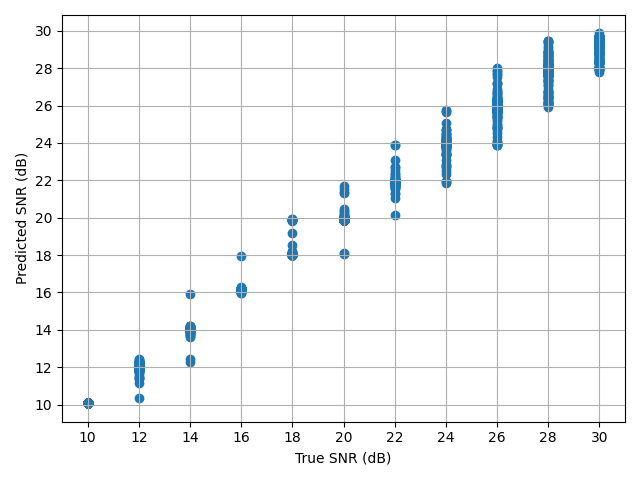
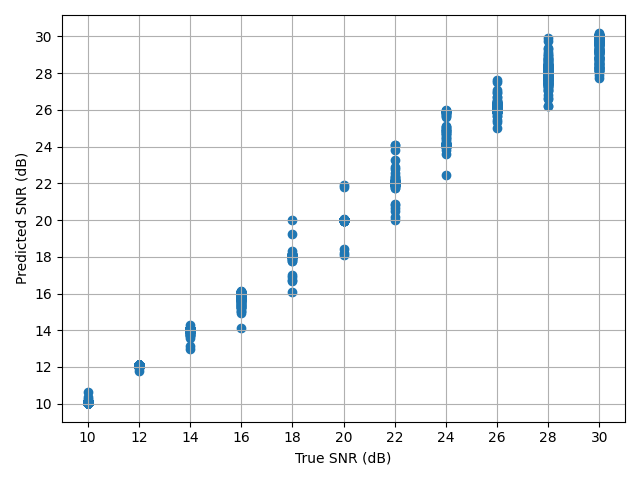
work

diff --git a/src/eeng645_rudy_finalproject/cloning-env/eval.py b/src/eeng645_rudy_finalproject/cloning-env/eval.py
@@ -24,6 +24,7 @@ tf.compat.v1.enable_eager_execution()
 
 
 def get_data2(class_labels_keep=[3,8,2], num_examples=100):
+    np.random.seed(1)
     # Snippet from "run_me.py" for part 3 data
     # "main" root of all data packages used in project
     data_storage_dir = os.path.join(os.getcwd(),'data','project')
@@ -167,15 +168,15 @@ def evaluate(checkpoint, rf_data = None, num_classes=None, evaluation_duration =
 if __name__== '__main__':
     
     # In this example, keep FM (3), BPSK (8)
-    class_labels_keep = [3,8]
+    class_labels_keep = [3,8,22]
     # class_labels_keep = get_class_labels_normal()
     # Use 10 examples of each
-    num_examples = 20
+    num_examples = 100
     signals_train_pt3, labels_train_pt3, signals_test_pt3, labels_test_pt3 = get_data2(class_labels_keep, num_examples)
     num_classes = len(get_class_labels_normal())
     total_examples = num_examples*num_classes
 
-    checkpoint = '/remote_home/EENG645_FinalProject/ray_results/FinalProject_Copycat/PPO_cloning-v0_4b676_00000_0_2024-03-11_02-15-56/checkpoint_000000'
+    checkpoint = '/remote_home/EENG645_FinalProject/ray_results/FinalProject_Copycat/PPO_cloning-v0_eba65_00000_0_2024-03-11_05-19-22/checkpoint_000000'
     evaluation_duration = 1
     evaluation_num_workers = 3
     evaluate(checkpoint=checkpoint, evaluation_duration=evaluation_duration, evaluation_num_workers=evaluation_num_workers, rf_data=signals_test_pt3, num_classes=num_classes)

diff --git a/src/eeng645_rudy_finalproject/run_me.py b/src/eeng645_rudy_finalproject/run_me.py
@@ -34,7 +34,7 @@ def main():
 
     DO_PART2 = True
     TRAIN_SNR_ESTIMATOR = False
-    TEST_SNR_ESTIMATOR = False
+    TEST_SNR_ESTIMATOR = True
 
     ###########################
     ##### Sim. Parameters #####
@@ -140,9 +140,11 @@ def main():
     indices_train_pt2, indices_val_pt2, labels_train_pt2, labels_val_pt2 = train_test_split(indices, labels_train_pt2, random_state=SEED, test_size=VALIDATION_SPLIT)
     
     signals_val_pt2 = signals_train_pt2[indices_val_pt2,:,:]
+    # labels_val_pt2 = labels_train_pt2[indices_val_pt2,:]
     snrs_val_pt2 = snrs_train_pt2[indices_val_pt2]
 
     signals_train_pt2 = signals_train_pt2[indices_train_pt2,:,:]
+    # labels_train_pt2 = labels_train_pt2[indices_train_pt2,:]
     snrs_train_pt2 = snrs_train_pt2[indices_train_pt2]
 
     # Part 3 - Reinforcement Learning
@@ -223,7 +225,7 @@ def main():
             lr_scheduler_cb = ReduceLROnPlateau(factor = 0.75, patience = 10)
             checkpoint_model_cb = ModelCheckpoint(SNR_EST_CHECKPOINT_LOC,save_best_only=True)
             early_stopping_cb = EarlyStopping(patience=50)
-            cbs = [lr_scheduler_cb, checkpoint_model_cb, early_stopping_cb]
+            cbs = [checkpoint_model_cb, early_stopping_cb]
 
             snr_estimator_model = build_snr_estimator()
             snr_est_fit_history = snr_estimator_model.fit(

diff --git a/src/eeng645_rudy_finalproject/cloning-env/train_dbl_run.py b/src/eeng645_rudy_finalproject/cloning-env/train_dbl_run.py
@@ -18,7 +18,6 @@ from data_management import load_train_test_subset, trim_dataset_by_index, get_c
 ############################
 
 def get_data2(class_labels_keep=[3,8,2], num_examples=100):
-    np.random.seed(1)
     # Snippet from "run_me.py" for part 3 data
     # "main" root of all data packages used in project
     data_storage_dir = os.path.join(os.getcwd(),'data','project')
@@ -67,10 +66,10 @@ def get_data2(class_labels_keep=[3,8,2], num_examples=100):
     return signals_train_pt3_trimmed, labels_train_pt3_trimmed, signals_test_pt3_trimmed, labels_test_pt3_trimmed
 
 def main():
-    # In this example, keep FM (3), BPSK (8)
+    # In this example, keep FM (3), BPSK (8), OOK (22)
     class_labels_keep = [3,8]
     # class_labels_keep = get_class_labels_normal()
-    # Use 10 examples of each
+    # Use set number of examples of each
     num_examples = 1000
     signals_train_pt3, labels_train_pt3, signals_test_pt3, labels_test_pt3 = get_data2(class_labels_keep, num_examples)
     num_classes = len(class_labels_keep)
@@ -92,7 +91,7 @@ def main():
 
     local_mode = False
     training_iterations = 30 # max iterations before stopping
-    num_cpu = 3
+    num_cpu = 6
     num_gpus = 0
     num_eval_workers = 1
 

diff --git a/src/eeng645_rudy_finalproject/snr_estimator.py b/src/eeng645_rudy_finalproject/snr_estimator.py
@@ -60,7 +60,7 @@ def build_snr_estimator(config=None):
     input_layer = Input(shape=input_shape)
     num_conv1d_stacks = 1
     num_dense_layers = 4
-    num_hidden_neurons = 2**7
+    num_hidden_neurons = 2**8
     dropout_rate = 0.25
 
     dilation_rates = 2 ** np.arange(8)
@@ -78,8 +78,11 @@ def build_snr_estimator(config=None):
 
     conv1d_layer_last = Conv1D(num_filters*4,2,strides=2)(model_layers[-1])
     model_layers.append(conv1d_layer_last)
+    
+    conv1d_layer_last = Conv1D(num_filters*8,2,strides=2)(model_layers[-1])
+    model_layers.append(conv1d_layer_last)
 
-    maxpooling_layer = MaxPooling1D(pool_size=256,strides=None,padding='valid')(model_layers[-1])
+    maxpooling_layer = MaxPooling1D(pool_size=128,strides=None,padding='valid')(model_layers[-1])
     model_layers.append(maxpooling_layer)
 
     # conv1d_layer_last = Conv1D(num_filters,2,strides=2)(model_layers[-1])

diff --git a/src/eeng645_rudy_finalproject/cloning-env/cloning_env/envs/cloning_env.py b/src/eeng645_rudy_finalproject/cloning-env/cloning_env/envs/cloning_env.py
@@ -24,7 +24,7 @@ class CloningEnv_v0(gymnasium.Env):
     MAX_STEPS = 100
 
     # Possible Rewards
-    REWARD_INCORRECT = 0
+    REWARD_INCORRECT = -2
     REWARD_CORRECT = 1
 
     # Optional metadata dictionary
